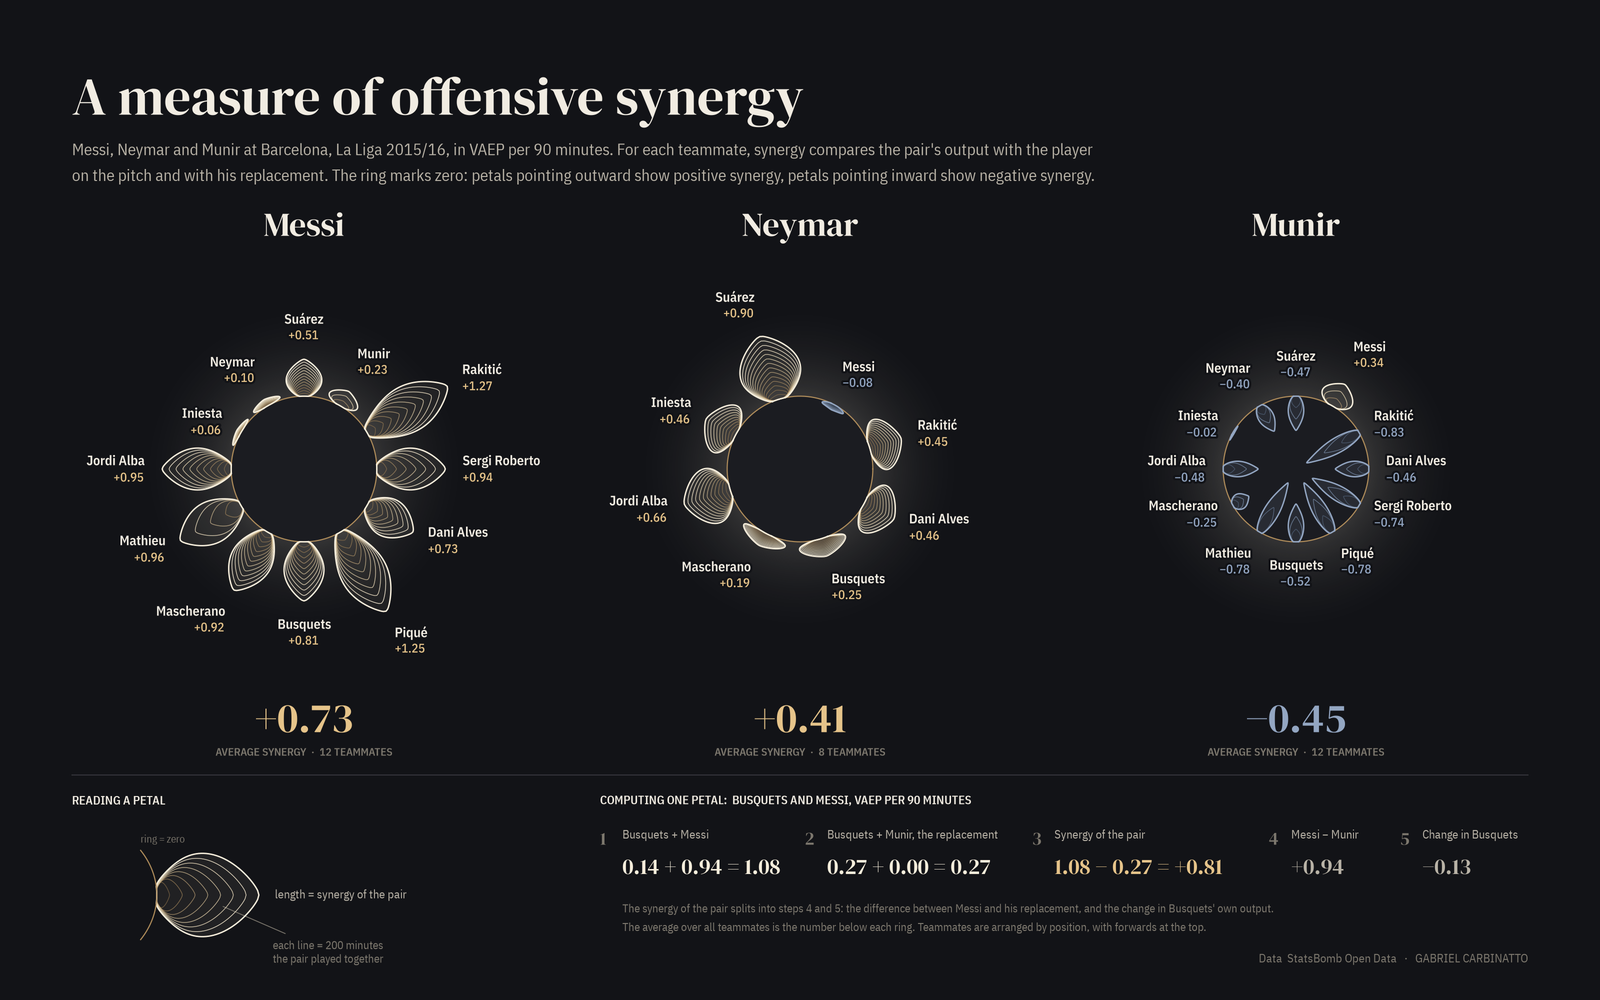
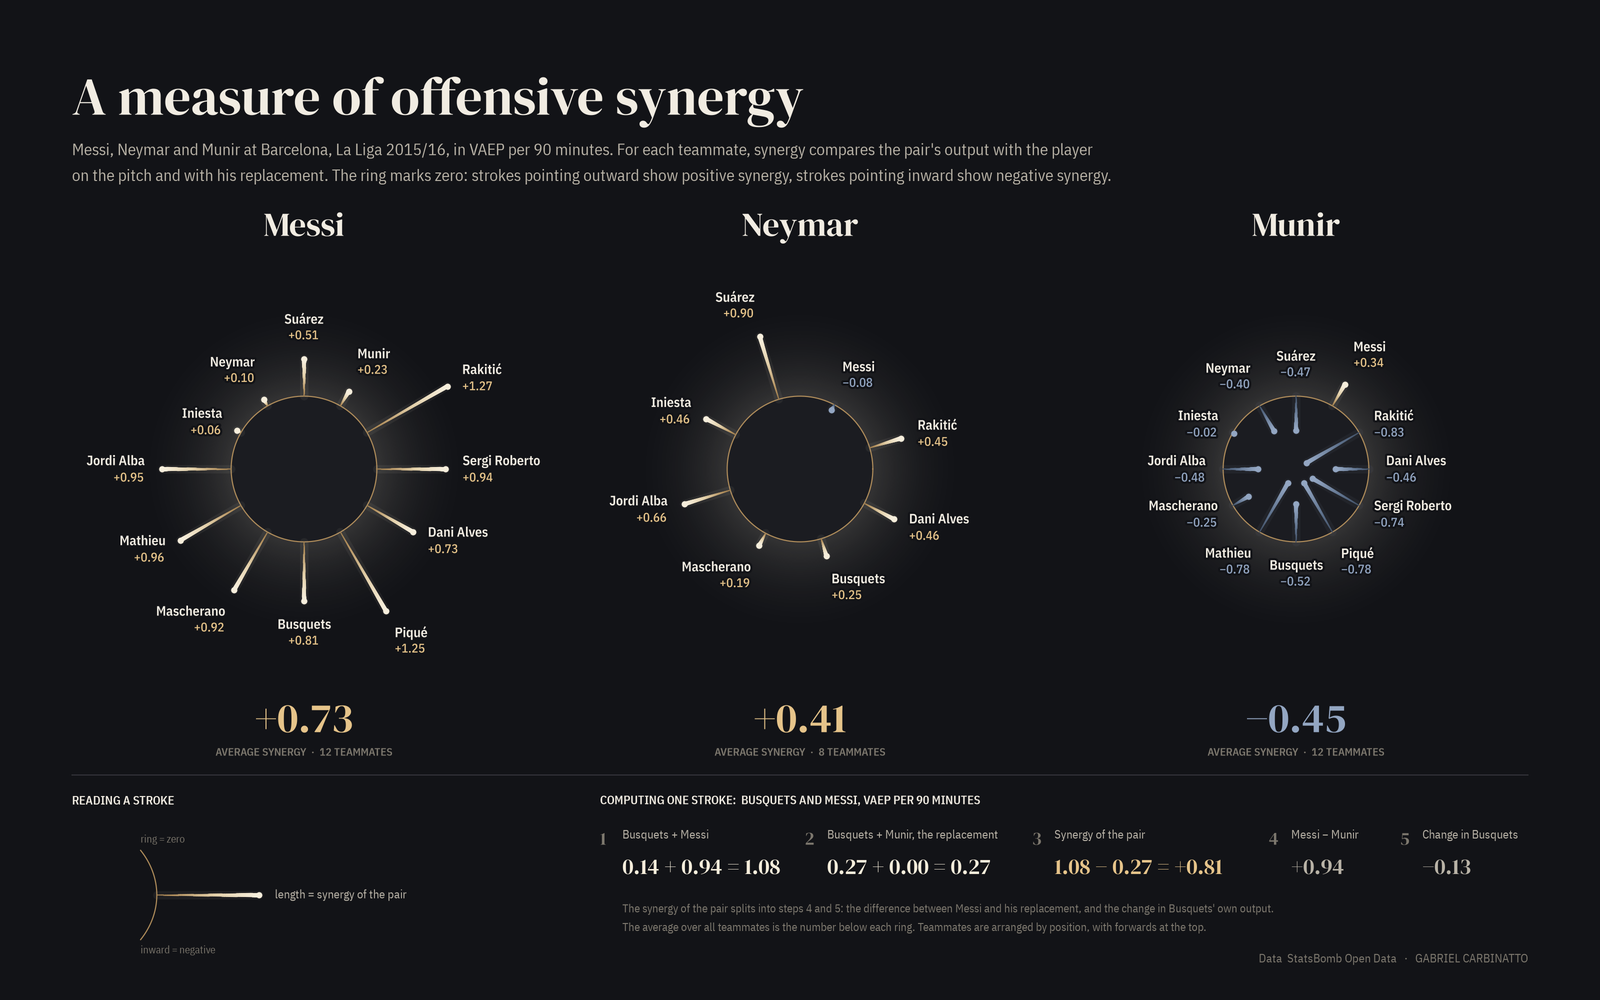
Update A Measure of Offensive Synergy with stroke version

diff --git a/index.html b/index.html
@@ -207,7 +207,7 @@
         <article class="project-item">
           <a class="project-card" href="html/assets/offensive-synergy.png" aria-label="Open A Measure of Offensive Synergy (full-size image)">
             <span class="project-card__media">
-              <img src="html/assets/offensive-synergy-cover.png" alt="Three petal charts of offensive synergy for Messi, Neymar and Munir at Barcelona in 2015/16, one petal per teammate, with the calculation for one pair below" width="1600" height="1000">
+              <img src="html/assets/offensive-synergy-cover.png" alt="Three rings of offensive synergy for Messi, Neymar and Munir at Barcelona in 2015/16, one stroke of light per teammate pointing outward or inward, with the calculation for one pair below" width="1600" height="1000">
             </span>
             <span class="project-card__body">
               <strong>A Measure of Offensive Synergy</strong>
